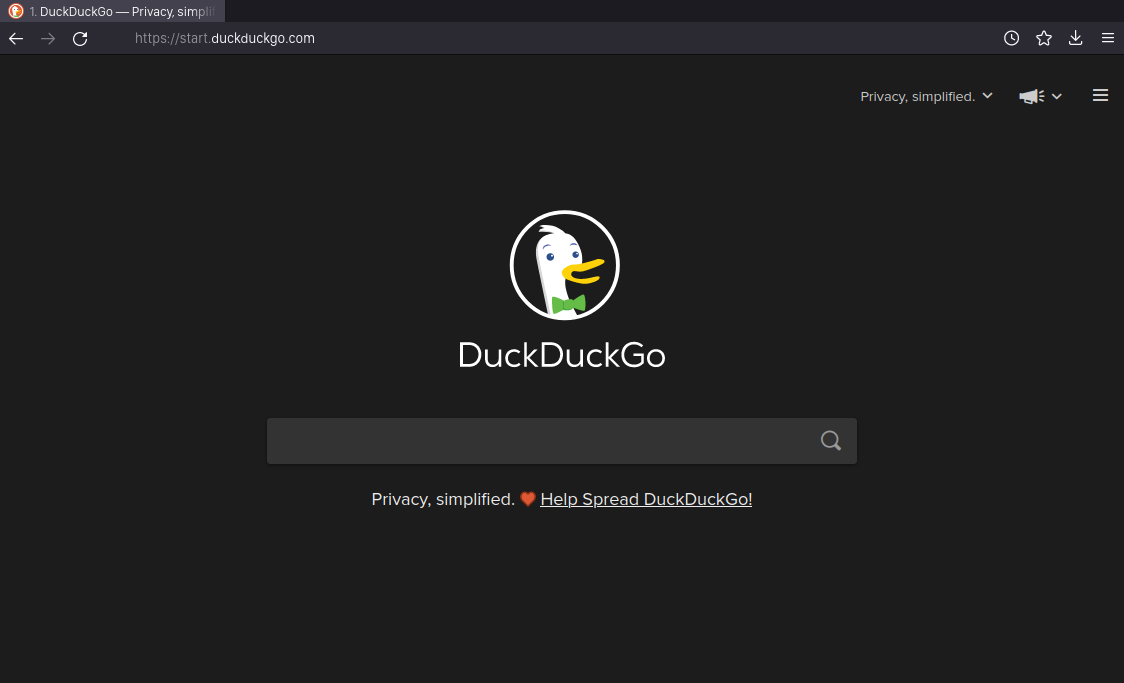
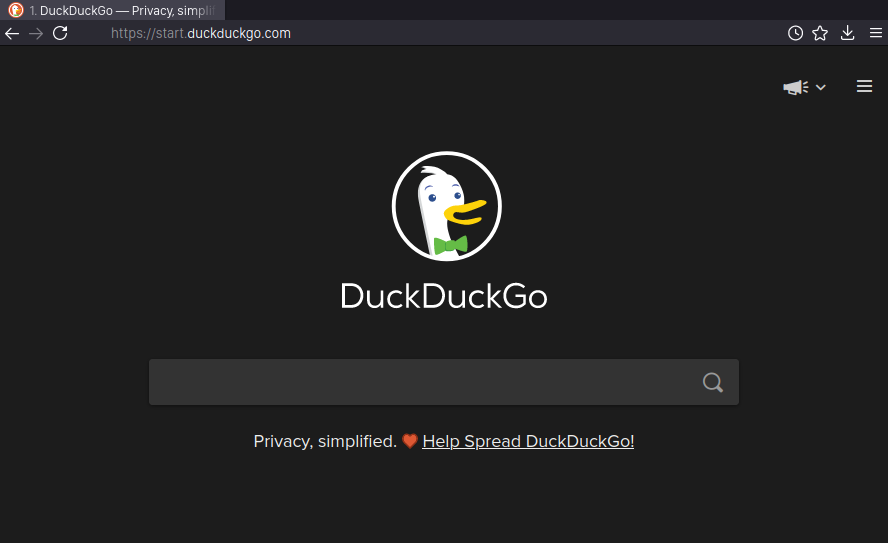
reduced navbar height and tabbar height

diff --git a/userChrome.css b/userChrome.css
@@ -3,19 +3,20 @@ toolbar {
   --toolbarbutton-hover-background: initial !important;
 }
 
-
 /*
 	TAB BAR
 */
 
 /* reduces the tab bar height */
-:root, #tabbrowser-tabs {
-  --tab-min-height: 22px !important;
+:root,
+#tabbrowser-tabs {
+  --tab-min-height: 20px !important;
 }
 .tab-background {
-  margin-block: 0 !important
+  margin-block: 0 !important;
 }
-#TabsToolbar-customization-target, #tabbrowser-tabs {
+#TabsToolbar-customization-target,
+#tabbrowser-tabs {
   height: var(--tab-min-height);
 }
 /* hides the tab bar when in 'new window' mode */
@@ -24,7 +25,7 @@ window[chromehidden^="menubar"] #titlebar {
 }
 /* hides the firefox icon on the top-left */
 #firefox-view-button {
-  display: none
+  display: none;
 }
 /* removes the vertical bar next to the firefox icon */
 #tabbrowser-tabs {
@@ -33,13 +34,12 @@ window[chromehidden^="menubar"] #titlebar {
   margin-inline-start: 0 !important;
 }
 .tabbrowser-tab {
-  padding: 0 !important
+  padding: 0 !important;
 }
 /* remove rounded corners on tabs */
 .tab-background {
   border-radius: 0 !important;
 }
-
 
 /* hides the 'X' (close) button from tab until hover */
 .tab-close-button {
@@ -79,32 +79,44 @@ window[chromehidden^="menubar"] #titlebar {
 
 /* hides the All tabs button */
 #alltabs-button {
-  display: none !important
+  display: none !important;
 }
-
-
-
 
 /*
 	NAV BAR
 */
 
+/* reduces the navbar height */
+#urlbar {
+  --urlbar-toolbar-height: 25px !important;
+}
+#urlbar-container {
+  --urlbar-container-height: 25px !important;
+}
+#nav-bar-customization-target toolbarbutton image,
+#nav-bar-customization-target toolbarbutton stack {
+  padding: calc(var(--toolbarbutton-inner-padding) / 2) !important;
+  padding-top: 0 !important;
+  padding-bottom: 0 !important;
+  height: initial !important;
+  width: initial !important;
+}
+
 /* reduces the searchbar/navbar height */
-#urlbar, .searchbar-textbox {
+#urlbar,
+.searchbar-textbox {
   min-height: initial !important;
   margin: 0 !important;
 }
 
 /* normalize icon sizes and spaces between them */
 toolbarbutton {
-  padding: 0 0 !important
+  padding: 0 0 !important;
 }
-
-
 
 /* uses the "bookmark this page" (star) icon for the bookmark menu */
 #bookmarks-menu-button {
-    list-style-image: url("chrome://browser/skin/bookmark-hollow.svg") !important;
+  list-style-image: url("chrome://browser/skin/bookmark-hollow.svg") !important;
 }
 
 /* removes the extensions button */
@@ -112,18 +124,17 @@ toolbarbutton {
   display: none !important;
 }
 
-
 /* hides the harmburger icon separator */
 #PanelUI-button {
   border: none !important;
 }
 
 /* removes extra spacing around hamburger icon */
-#PanelUI-button, #PanelUI-menu-button {
+#PanelUI-button,
+#PanelUI-menu-button {
   padding-inline-start: 0 !important;
   padding-inline-end: 0 !important;
 }
-
 
 /*
 	NAV TEXTBOX
@@ -139,15 +150,13 @@ toolbarbutton {
   background-color: var(--toolbar-bgcolor) !important;
 }
 
-
-
 /*
 	NAV TEXTBOX - LEFT
 */
 
 /* hides the tracking protection (shield) icon */
 #tracking-protection-icon-box {
-   visibility: collapse !important;
+  visibility: collapse !important;
 }
 
 /* hides the identity (i) icon */
@@ -157,7 +166,8 @@ toolbarbutton {
 }
 
 /* hides certificates label until hover */
-#identity-icon-label, #identity-icon-country-label {
+#identity-icon-label,
+#identity-icon-country-label {
   visibility: collapse !important;
 }
 #identity-box:hover #identity-icon-label,
@@ -175,13 +185,13 @@ toolbarbutton {
   border: none !important;
 }
 
-
 /*
 	NAV TEXTBOX - RIGHT
 */
 
 /* removes the reader icon and seperator */
-#pageActionSeparator, #reader-mode-button {
+#pageActionSeparator,
+#reader-mode-button {
   visibility: collapse !important;
 }
 
@@ -202,8 +212,6 @@ toolbarbutton {
   display: none !important;
 }
 
-
-
 /*
 	BOOKMARKS MENU
 */
@@ -215,17 +223,15 @@ toolbarbutton {
 /* remove "Bookmarks Toolbar" menu item */
 #BMB_bookmarksToolbar,
 /* Hides all separators */
-#BMB_bookmarksPopup menuseparator
-{
-  display: none
+#BMB_bookmarksPopup menuseparator {
+  display: none;
 }
 
 /* Adjust "Show All Bookmarks" and "Open all in tabs" size */
-#BMB_bookmarksShowAll, .openintabs-menuitem {
+#BMB_bookmarksShowAll,
+.openintabs-menuitem {
   min-height: initial !important;
 }
-
-
 
 /*
 	HISTORY MENU
@@ -239,9 +245,8 @@ toolbarbutton {
 /* Remove "Recently Closed Windows" menu item */
 #appMenuRecentlyClosedWindows,
 /* Remove "Recent History" label */
-#PanelUI-history .subview-subheader
-{
-  display: none
+#PanelUI-history .subview-subheader {
+  display: none;
 }
 
 /* Hides all separators */
@@ -253,8 +258,6 @@ toolbarbutton {
 #PanelUI-historyMore {
   min-height: initial !important;
 }
-
-
 
 /*
 	HAMBURGER ICON
@@ -281,19 +284,17 @@ toolbarbutton {
 /* Remove "Add-ons and themes" menu item */
 #appMenu-extensions-themes-button,
 /* Hides all separators */
-#appMenu-protonMainView toolbarseparator
-{
+#appMenu-protonMainView toolbarseparator {
   display: none !important;
 }
-
-
 
 /*
 	ADD/EDIT BOOKMARK
 */
 
 /* Remove preview image, favicon */
-#editBookmarkPanelFaviconContainer, #editBookmarkPanelImage {
+#editBookmarkPanelFaviconContainer,
+#editBookmarkPanelImage {
   display: none !important;
 }
 
